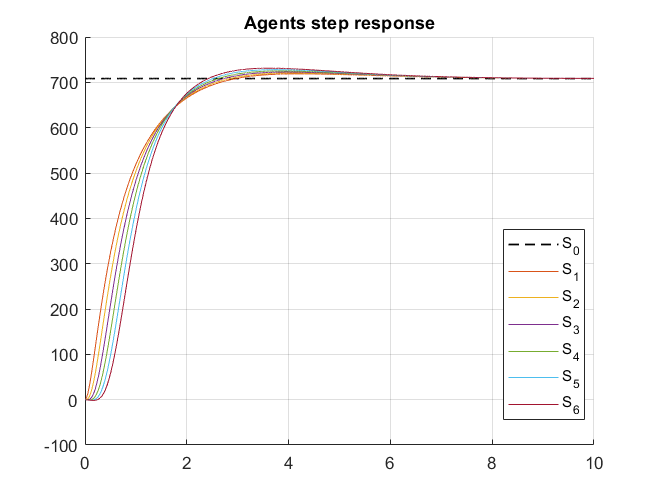
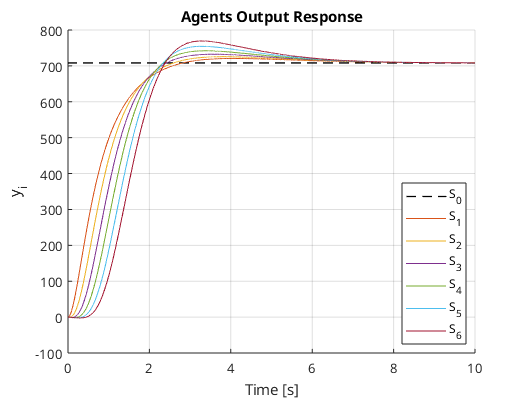
p02: added prints

diff --git a/Part II/project/main.m b/Part II/project/main.m
@@ -48,12 +48,12 @@ par.Qo = eye(n);
 sim_len = length(t_sim);
 
 % rmse of response w.r.t. leader
-rms_agents = zeros(N,1);
+rms_output_agents = zeros(N,1);
 for i = 1:N
-    rms_agents(i) = rms(y0_sim - yi_sim{i});
+    rms_output_agents(i) = rms(y0_sim - yi_sim{i});
 end
-rms_agents
-mean(rms_agents)
+rms_output_agents
+mean_rms_output_agents = mean(rms_output_agents);
 
 % command inputs norm
 effort_agents = zeros(N,1);
@@ -61,7 +61,7 @@ for i = 1:N
     effort_agents(i) = norm(ui_sim{i})^2;
 end
 effort_agents
-mean(effort_agents)
+mean_effort_agents = mean(effort_agents);
 
 % global disagreement error
 delta = zeros(n*N, sim_len);
@@ -77,7 +77,7 @@ for t_ind = 1:sim_len
     delta(:,t_ind) = xi_all - x0_bar;
     delta_RMS(t_ind) = rms(delta(:,t_ind));
 end
-mean(delta_RMS)
+mean_delta_RMS = mean(delta_RMS);
 
 % time of zero disagreement error
 t_ga = -1;
@@ -95,7 +95,7 @@ for i = 1:N
     yt_avg = yt_avg + abs(yt_sim{i}(:));
 end
 yt_avg = yt_avg / N;
-mean(yt_avg)
+mean_yt_avg = mean(yt_avg);
 
 % observer estimation error (average of states)
 avg_obs_err = {N};
@@ -111,7 +111,7 @@ for i = 1:N
     avg_avg_obs_err = avg_avg_obs_err + avg_obs_err{i}(:);
 end
 avg_avg_obs_err = avg_avg_obs_err / N;
-mean(avg_avg_obs_err)
+mean_avg_avg_obs_err = mean(avg_avg_obs_err);
 
 
 
@@ -124,7 +124,7 @@ plot(t_sim,y0_sim,'k--', 'LineWidth',1, 'DisplayName','S_0')
 for i = 1:N
     plot(t_sim,yi_sim{i}, 'DisplayName',sprintf("S_%i", i))
 end
-title('Agents output response'), legend
+title('Agents Output Response'), legend
 xlabel('Time [s]'), ylabel('y_i')
 
 % command inputs plot
@@ -185,7 +185,7 @@ else
     end
 end
 times_agents
-mean(times_agents)
+mean_times_agents = mean(times_agents);
 
 % plots
 f = figure();
@@ -200,8 +200,8 @@ else
 end
 xlabel('Follower #'), ylabel('seconds')
 
-subplot(3,1,2), plot(1:N, rms_agents, 'o'), grid on
-xlim([0.5 N+0.5]), ylim([0.95*min(rms_agents) 1.05*max(rms_agents)])
+subplot(3,1,2), plot(1:N, rms_output_agents, 'o'), grid on
+xlim([0.5 N+0.5]), ylim([0.95*min(rms_output_agents) 1.05*max(rms_output_agents)])
 legend('Output RMS')
 xlabel('Follower #'), ylabel('RMS')
 title('Followers Output Error RMS')
@@ -227,10 +227,26 @@ for t_ind = 1:sim_len
     end
     dist_vec(t_ind) = norm(dist_matr, 1);
 end
-mean(dist_vec)
+mean_dist_vec = mean(dist_vec);
 
 % plot
 figure
 plot(t_sim, dist_vec), grid on
 title('Maximum Distance of Agents Outputs')
 xlabel('Time [s]'), ylabel('dist')
+
+
+
+%% Display simulation numerical results
+
+mean_delta_RMS
+mean_yt_avg
+
+disp('--------------------')
+
+mean_rms_output_agents
+t_ga
+mean_effort_agents
+mean_times_agents
+mean_dist_vec
+mean_avg_avg_obs_err
